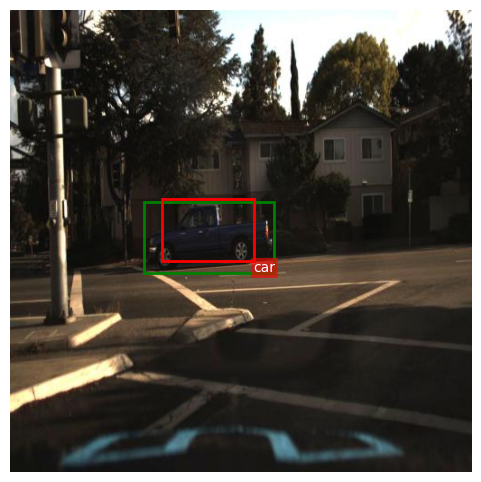
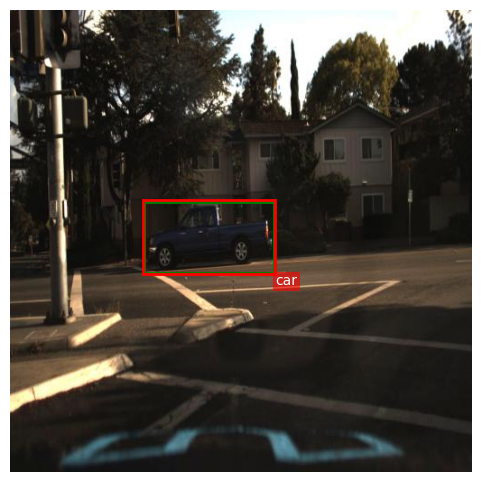
Summary improvements

Changed region(s): [[0.2807, 0.4046, 0.6237, 0.6224]]

diff --git a/SSD_explained.md b/SSD_explained.md
@@ -93,14 +93,14 @@ What does NMS do?  Let's look at our model's predictions on the above image with
 
 ![Prediction without NMS](figures/pred_no_nms.gif)
 
-There can, and often will, be many priors that have a 'reasonable' overlap with a given GT object.  Our model should give a high classification score (above a user set `score threshold`) for many of the priors nearby a GT object.  For the image above, the model produces 9 predictions for this single car that surpass the `score threshold`.
+There can, and often will, be many priors that have a 'reasonable' overlap with a given GT object.  Our model should give a high classification score (above a user set `score threshold`) for many of the priors nearby a GT object.  For the image above, the model produces 48 predictions for this single car that surpass the `score threshold`.
 
 NMS chooses the prior with the highest classification score and then deletes (suppresses) other predictions that have a high Intersection over union (IoU) score with the top scoring prior.  This `NMS threshold` is a parameter that is chosen by the user.  For each selected box, we remove every remaining box whose IoU with it exceeds the `NMS threshold`; boxes whose IoU is below or equal to the threshold survive to the next step. Therefore, lowering the threshold makes NMS more aggressive (fewer boxes left), and raising it makes NMS less aggressive.
 
 ![Prediction with NMS](figures/pred_after_nms.png)
 ![Prediction with NMS, threshold too high](figures/pred_nms_thresh_too_high.png)
 
-In the figure above on the right, we can see what happens if the `NMS threshold` is too high.  It is to be noted that better predictions appeared in the .gif above that got suppressed but this is due to poor performance of the model and not the implementation of NMS.
+In the figure above on the right, we can see what happens if the `NMS threshold` is too high.
 
 
 ### How is the model trained?
